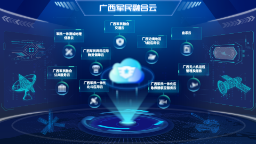
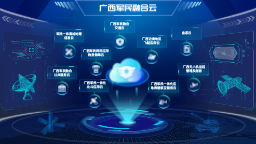
更新首页

Changed region(s): [[0.375, 0.4444, 0.625, 0.6389]]

diff --git a/01daohangye.html b/01daohangye.html
@@ -646,17 +646,20 @@
                         accessType: "style",
                         from: 1,
                         to: 0,
-                        duration: 4500,
+                        duration: 3000,
                         //repeat: true
                     },
                     large: {
                         from: 1,
                         to: 1.15,
-                        duration: 4500,
+                        duration: 3000,
                         //repeat: true,
                         onUpdate: function (value) {
                             this.setScale(value,value);
                         },
+                        onComplete: function () {
+
+                        }
                     },
                     start: ["show","large"]
                 })
@@ -666,15 +669,15 @@
                         accessType: "style",
                         from: 1,
                         to: 0,
-                        delay: 800,
-                        duration: 4500,
+                        //delay: 800,
+                        duration: 3000,
                         //repeat: true
                     },
                     large: {
                         from: 1,
-                        to: 1.1,
-                        duration: 4500,
-                        delay: 800,
+                        to: 2.5,
+                        duration: 3500,
+                        //delay: 800,
                         //repeat: true,
                         onUpdate: function (value) {
                             this.setScale(value,value);
@@ -688,15 +691,15 @@
                         accessType: "style",
                         from: 1,
                         to: 0,
-                        delay: 1500,
-                        duration: 4500,
+                        //delay: 1500,
+                        duration: 4000,
                         //repeat: true
                     },
                     large: {
                         from: 1,
-                        to: 1.05,
-                        duration: 4500,
-                        delay: 1500,
+                        to: 4.5,
+                        duration: 2500,
+                        //delay: 1500,
                         //repeat: true,
                         onUpdate: function (value) {
                             this.setScale(value,value);
